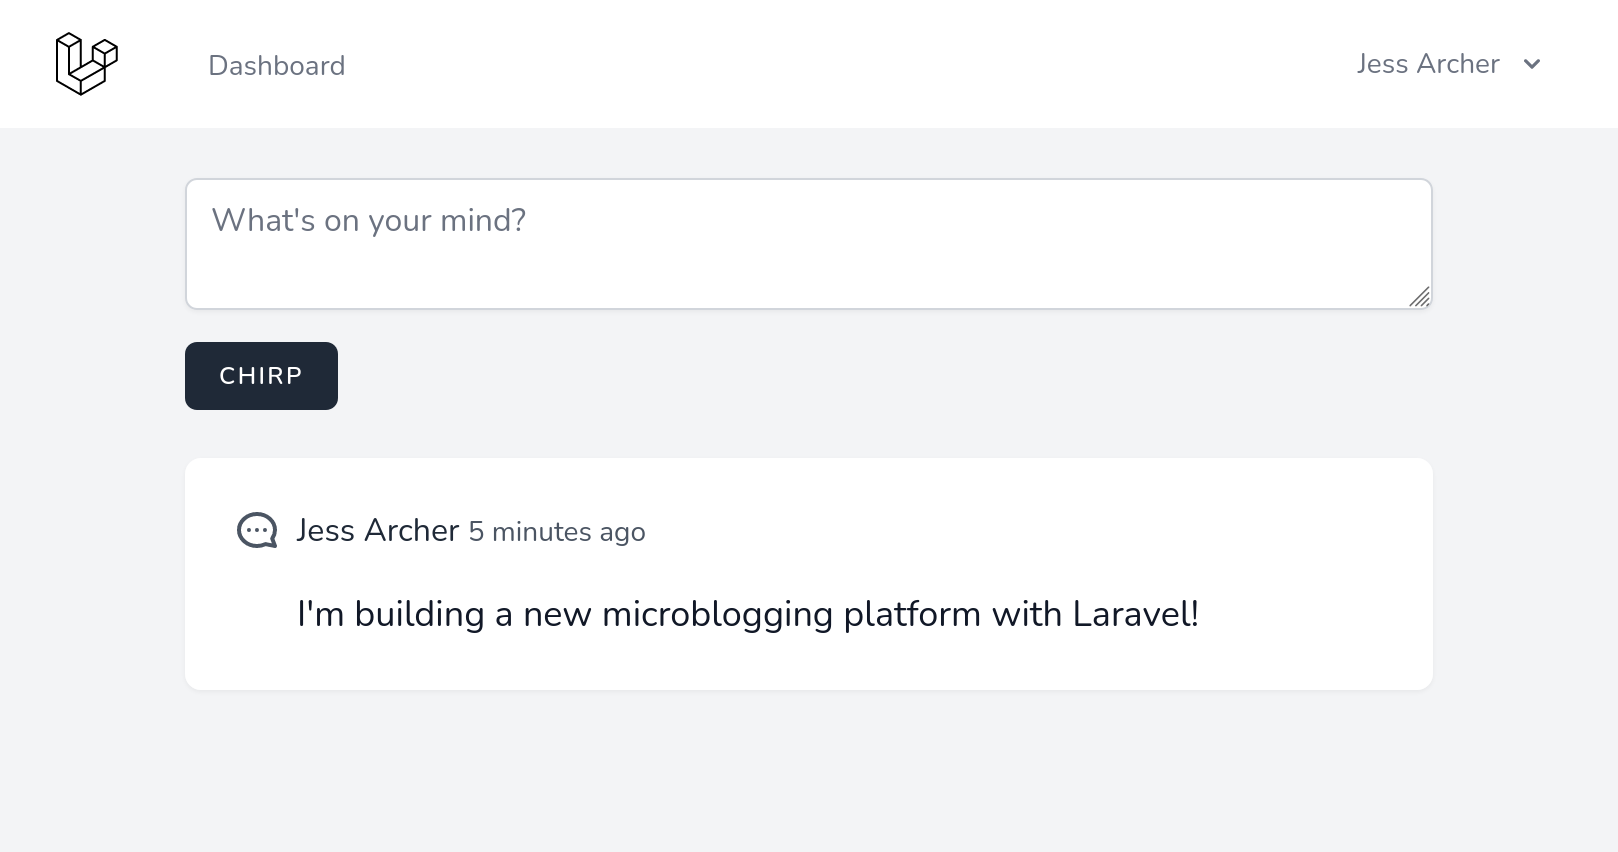
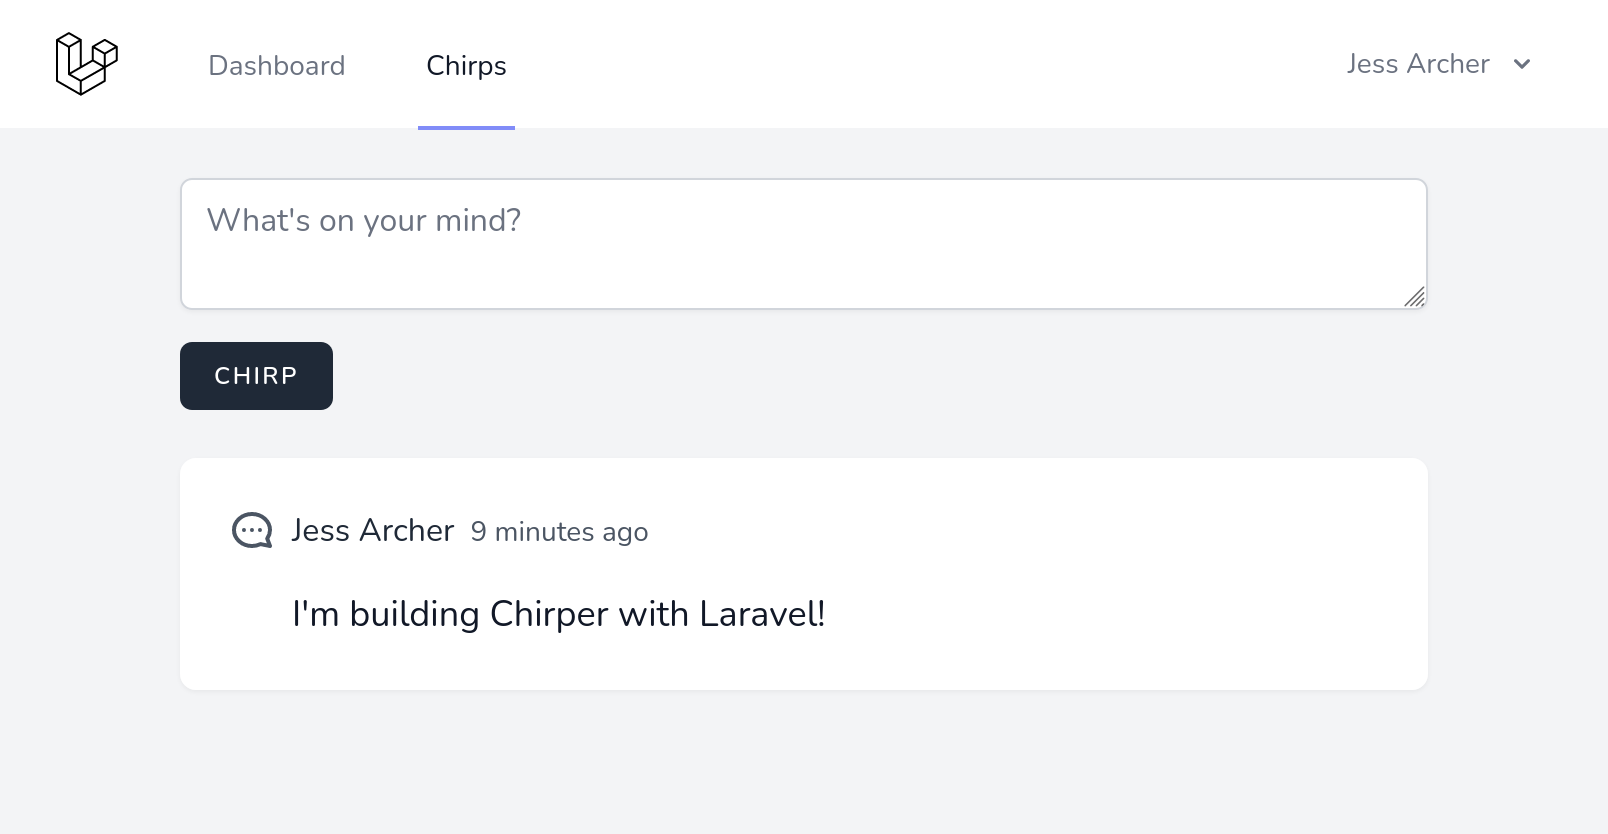
Update content

diff --git a/resources/docs/creating-chirps.md b/resources/docs/creating-chirps.md
@@ -91,7 +91,7 @@ POST      | `/chirps`              | store        | chirps.store
 > **Note**
 > You may view all of the routes for your application by running the `./vendor/bin/sail artisan route:list` command.
 
-Let's test our route and controller by returning a test message from the `index` method of our `ChirpController`:
+Let's test our route and controller by returning a test message from the `index` method of our new `ChirpController` class:
 
 ```php filename=app/Http/Controllers/ChirpController.php
 <?php
@@ -187,7 +187,7 @@ If you are still logged in from earlier, you should see your message when naviga
 
 ## Inertia
 
-Not impressed yet? Let's use Inertia to render a front-end page component:
+Not impressed yet? Let's update the `index` method of our `ChirpController` class to render a front-end page component using Inertia:
 
 ```php filename=app/Http/Controllers/ChirpController.php
 <?php
@@ -292,7 +292,7 @@ import BreezeInputError from '@/Components/InputError.vue';
 import { useForm, Head } from '@inertiajs/inertia-vue3';
 
 const form = useForm({
-    message => '',
+    message: '',
 });
 </script>
 
@@ -355,7 +355,7 @@ export default function Index({ auth }) {
 
 That's it! Refresh the page at [http://localhost/chirps](http://localhost/chirps) and you should see your new form rendered in the default layout provided by Breeze!
 
-<img src="/img/screenshots/chirp-form.png" alt="Chirp form" class="rounded-lg" />
+<img src="/img/screenshots/chirp-form.png" alt="Chirp form" class="rounded-lg border dark:border-none shadow-lg" />
 
 ## Navigation menu
 
@@ -419,7 +419,7 @@ return (
 
 ## Saving the chirp
 
-Our form has been configured to post messages to the `chirps.store` route that we created earlier. Let's update the `store()` method on our `ChirpController` to validate the data and create a new Chirp:
+Our form has been configured to post messages to the `chirps.store` route that we created earlier. Let's update the `store` method on our `ChirpController` class to validate the data and create a new Chirp:
 
 ```php filename=app/Http/Controllers/ChirpController.php
 <?php
@@ -521,15 +521,15 @@ class ChirpController extends Controller
 }
 ```
 
-We're using Laravel's powerful validation feature to ensure that the user provides a message, and that it won't the 255 character limit of the database column we'll be creating.
+We're using Laravel's powerful validation feature to ensure that the user provides a message, and that it won't exceed the 255 character limit of the database column we'll be creating.
 
-We're then creating a record that will belong to the logged in user by leveraging a `chirps()` relationship that we will create next.
+We're then creating a record that will belong to the logged in user by leveraging a `chirps` relationship that we will create next.
 
-And then finally, when using Inertia, we can return a `redirect()` to instruct Inertia to reload our `chirps.index` route.
+And finally, when using Inertia, we can return a redirect response to instruct Inertia to reload our `chirps.index` route.
 
 ## Creating a relationship
 
-You may have noticed in the previous step that we called a `chirps()` method on the `$request->user()` object. This method doesn't actually exist yet, but it would be nice if it did. We can do this by creating a "has many" relationship on our `User` model:
+You may have noticed in the previous step that we called a `chirps` method on the `$request->user()` object. We need to create this method on our `User` model to define a "has many" relationship:
 
 ```php filename=app/Models/User.php
 <?php
@@ -593,7 +593,7 @@ Passing all of the data from a request to your model can be risky. Imagine you h
 
 Laravel protects you from accidentally doing this by blocking mass assignment by default. Mass assignment is very convenient though, as it prevents you from having to assign each attribute one-by-one. We can enable mass assignment for safe attributes my marking them as "fillable".
 
-Open your `Chirp` model and add a `$fillable` property that includes our `messages` attribute:
+Let's add the `$fillable` property to our `Chirp` model enable mass-assignment for the `message` attribute:
 
 ```php filename=app/Models/Chirp.php
 <?php
@@ -618,7 +618,7 @@ You can learn more about Laravel's mass assignment protection in the [documentat
 
 ## Updating the migration
 
-The only thing missing is the extra columns in the database to store the relationship between a `Chirp` and its `User`, and the message itself. Remember the database migration we created earlier? It's time to open that file to add some extra columns:
+The only thing missing is extra columns in the database to store the relationship between a `Chirp` and its `User` and the message itself. Remember the database migration we created earlier? It's time to open that file to add some extra columns:
 
 ```php filename=databases/migration/&amp;lt;timestamp&amp;gt;_create_chirps_table.php
 <?php
@@ -670,6 +670,8 @@ We haven't migrated the database since we added this migration, so let do it now
 
 We're now ready to send a "chirp" from the form we added to [http://localhost/chirps](http://localhost/chirps)! You won't be able to see the result yet because we haven't displayed existing chirps on the page.
 
+<img src="/img/screenshots/chirp-form-filled.png" alt="Chirp form" class="rounded-lg border dark:border-none shadow-lg" />
+
 If you leave the message field empty, or enter more than 255 characters, then you'll see the validation in action.
 
 ### Artisan Tinker
@@ -694,9 +696,9 @@ Chirp::all();
        App\Models\Chirp {#4514
          id: 1,
          user_id: 1,
-         message: "I'm building a new microblogging platform with Laravel!",
-         created_at: "2022-07-10 04:47:10",
-         updated_at: "2022-07-10 04:47:10",
+         message: "I'm building Chirper with Laravel!",
+         created_at: "2022-08-24 13:37:00",
+         updated_at: "2022-08-24 13:37:00",
        },
      ],
    }

diff --git a/resources/docs/notifications-and-events.md b/resources/docs/notifications-and-events.md
@@ -16,7 +16,7 @@ Artisan can, once again, do all the hard work for us with the following command:
 
 This will create a new notification at `app/Notifications/NewChirp.php` that is ready for us to customize.
 
-Let's open this class and allow it to accept the Chirp that was just created, and then customize the message to include the name of the Chirp author, and a snippet from the message.
+Let's open the `NewChirp` class and allow it to accept the `Chirp` that was just created, and then customize the message to include author's name and a snippet from the message.
 
 ```php filename=app/Notifications/NewChirp.php
 <?php
@@ -89,7 +89,7 @@ class NewChirp extends Notification
 }
 ```
 
-We could send the notification directly from the `store` method on our `ChirpController`, but that adds more work for the controller, which in turn could slow down the request, especially as we'll be querying the database and sending emails.
+We could send the notification directly from the `store` method on our `ChirpController` class, but that adds more work for the controller, which in turn can slow down the request, especially as we'll be querying the database and sending emails.
 
 Instead, let's dispatch an event that we can listen for and process in a background queue to keep our application snappy.
 
@@ -102,6 +102,8 @@ Let's create our new event with the following command:
 ```shell
 ./vendor/bin/sail artisan make:event ChirpCreated
 ```
+
+This will create a new event class at `app/Events/ChirpCreated.php`.
 
 Since we'll be dispatching events for each new Chirp that is created, let's update our `ChirpCreated` event to accept the newly created `Chirp` so we may pass it on to our notification.
 
@@ -178,6 +180,8 @@ class Chirp extends Model
     }
 }
 ```
+
+Now any time a new `Chirp` is created, the `ChirpCreated` event will be dispatched.
 
 ## Creating an event listener
 
@@ -303,6 +307,8 @@ Laravel Sail comes with [MailHog](https://github.com/mailhog/MailHog), an email 
 We've configured our notification not to send to the Chirp author, so first be sure that you have registered at least two users accounts. Then, you may go ahead and send a Chirp from one of your registered accounts to trigger a notification.
 
 In your web browser, navigate to [http://localhost:8025/](http://localhost:8025/) where you'll find MailHog's interface. In the inbox, you should see the notification from the message you just chirped!
+
+<img src="/img/screenshots/mailhog.png" alt="MailHog" class="rounded-lg border dark:border-none shadow-lg" />
 
 ### Sending emails in production
 

diff --git a/resources/docs/showing-chirps.md b/resources/docs/showing-chirps.md
@@ -6,7 +6,7 @@ In the previous step we added the ability to create Chirps, now we're ready to d
 
 ## Controller
 
-Let's update the `index()` method our `ChirpController` to pass Chirps from every user to our Index page.
+Let's update the `index` method our `ChirpController` class to pass Chirps from every user to our Index page.
 
 ```php filename=app/Http/Controllers/ChirpController.php
 <?php
@@ -105,6 +105,9 @@ class ChirpController extends Controller
 }
 ```
 
+> **Note**
+> Returning all Chirps at once won't scale in production. Take a look at Laravel's powerful [pagination](https://laravel.com/docs/9.x/pagination) to improve performance.
+
 ## Relationship
 
 We've instructed Laravel to return the `id` and `name` property from the `user` relationship so that we can display the name of the Chirp author, without returning other potentially sensitive information such as the users email address. The `user` relationship hasn't been defined yet, so let's add a new "belongs to" relationship on our `Chirp` model:
@@ -193,8 +196,7 @@ import BreezeAuthenticatedLayout from '@/Layouts/Authenticated.vue';
 import BreezeButton from '@/Components/Button.vue';
 import BreezeInputError from '@/Components/InputError.vue';
 import Chirp from '@/Components/Chirp.vue';// [tl! add]
-import { Head } from '@inertiajs/inertia-vue3';
-import { useForm } from '@inertiajs/inertia-vue3';
+import { useForm, Head } from '@inertiajs/inertia-vue3';
 
 defineProps(['chirps']);// [tl! add]
 
@@ -279,7 +281,7 @@ export default function Index({ auth, chirps }) {// [tl! add]
 
 Refresh the page at [http://localhost/chirps](http://localhost/chirps) to see the message you chirped earlier!
 
-<img src="/img/screenshots/chirp-index.png" alt="Chirp listing" class="rounded-lg" />
+<img src="/img/screenshots/chirp-index.png" alt="Chirp listing" class="rounded-lg border dark:border-none shadow-lg" />
 
 ### Extra Credit: Relative dates
 
@@ -353,7 +355,7 @@ export default function Chirp({ chirp }) {
 
 Take a look in the browser to see your relative dates.
 
-<img src="/img/screenshots/chirp-index-dates.png" alt="Chirp listing with relative dates" class="rounded-lg" />
+<img src="/img/screenshots/chirp-index-dates.png" alt="Chirp listing with relative dates" class="rounded-lg border dark:border-none shadow-lg" />
 
 Feel free to Chirp some more, or even register another account and start a conversation!
 

diff --git a/resources/docs/deleting-chirps.md b/resources/docs/deleting-chirps.md
@@ -8,7 +8,7 @@ Hopefully you're starting to get the hang of things now. We think you'll be impr
 
 ## Route
 
-We'll start again by updating our routes to enable the `destroy` action:
+We'll start again by updating our routes to enable the `chirps.destroy` route:
 
 ```php filename=routes/web.php
 <?php
@@ -62,7 +62,7 @@ DELETE    | `/chirps/{chirp}`      | destroy      | chirps.destroy
 
 ## Controller
 
-Now we can update our `ChirpController` to perform the deletion and return to the Chirp index:
+Now we can update the `destroy` method on our `ChirpController` class to perform the deletion and return to the Chirp index:
 
 ```php filename=app/Http/Controllers/ChirpController.php
 <?php
@@ -177,7 +177,7 @@ class ChirpController extends Controller
 
 ## Authorization
 
-As with editing, we only want our Chirp authors to be able to delete their Chirps, so let's update our policy:
+As with editing, we only want our Chirp authors to be able to delete their Chirps, so let's update the `delete` method our `ChirpPolicy` class:
 
 ```php filename=app/Policies/ChirpPolicy.php
 <?php
@@ -249,7 +249,7 @@ class ChirpPolicy
     public function delete(User $user, Chirp $chirp)
     {
         //
-        return $user->id === $chirp->user_id;// [tl! remove:-1,1 add]
+        return $this->update($user, $chirp);// [tl! remove:-1,1 add]
     }
     // [tl! collapse:start]
     /**
@@ -279,9 +279,11 @@ class ChirpPolicy
 }
 ```
 
+Rather than repeating the logic from the `update` method, we can define the same logic by calling the `update` method from our `destroy` method.
+
 ## Updating our component
 
-Finally, we can add a delete button to our user interface. We'll place it inside the dropdown menu we created earlier that is only visible to the Chirp author:
+Finally, we can add a delete button to the dropdown menu we created earlier in our `Chirp` component:
 
 ```vue tab=Vue filename=resources/js/Components/Chirp.vue
 <script setup>
@@ -427,5 +429,7 @@ export default function Chirp({ chirp }) {
 ## Testing it out
 
 If you chirped anything you weren't happy with, try deleting it!
+
+<img src="/img/screenshots/chirp-delete.png" alt="Deleting a chirp" class="rounded-lg border dark:border-none shadow-lg" />
 
 [Continue to notifications & events...](/notifications-and-events)

diff --git a/resources/docs/editing-chirps.md b/resources/docs/editing-chirps.md
@@ -6,7 +6,7 @@ Let's add a feature that's missing from other popular bird-themed microblogging 
 
 ## Route
 
-First we will update our routes file to enable the `update` route for our resource controller:
+First we will update our routes file to enable the `chirps.update` route for our resource controller:
 
 ```php filename=routes/web.php
 <?php
@@ -204,7 +204,7 @@ export default function Chirp({ chirp }) {
 
 ## Updating our controller
 
-We can now update our `ChirpController` to accept the request and update the Chirp. Even though we're only displaying the edit button to the author of the Chirp, we need to authorize the request to make sure it's the author that is updating it.
+We can now update the `update` method on our `ChirpController` class to validate the request and update the database. Even though we're only displaying the edit button to the author of the Chirp, we also need to authorize the request to make sure it's the author that is updating it.
 
 ```php filename=app/Http/Controllers/ChirpController.php
 <?php
@@ -319,7 +319,7 @@ class ChirpController extends Controller
 
 ## Authorization
 
-By default, the `authorize()` method will prevent anyone from being able to update the Chirp. We can specify who is allowed to update it by creating a [Model Policy](https://laravel.com/docs/authorization#creating-policies) with the following command:
+By default, the `authorize` method will prevent *everyone* from being able to update the Chirp. We can specify who is allowed to update it by creating a [Model Policy](https://laravel.com/docs/authorization#creating-policies) with the following command:
 
 ```shell
 ./vendor/bin/sail artisan make:policy ChirpPolicy --model=Chirp
@@ -429,6 +429,8 @@ class ChirpPolicy
 
 ## Testing it out
 
-Time to test it out! Go ahead and edit a few Chirps. If you register another user account, you'll see that only the author of a Chirp can edit it.
+Time to test it out! Go ahead and edit a few Chirps using the dropdown menu. If you register another user account, you'll see that only the author of a Chirp can edit it.
+
+<img src="/img/screenshots/chirp-editted.png" alt="An editted chirp" class="rounded-lg border dark:border-none shadow-lg" />
 
 [Continue to allow deleting of chirps...](/deleting-chirps)

diff --git a/resources/docs/installation.md b/resources/docs/installation.md
@@ -29,8 +29,8 @@ cd chirper
 
 Once the application's Docker containers have been started, you can access the application in your web browser at: [http://localhost](http://localhost).
 
-<img src="/img/screenshots/fresh.png" alt="A fresh Laravel installation" class="dark:hidden rounded-lg" />
-<img src="/img/screenshots/fresh-dark.png" alt="A fresh Laravel installation" class="hidden dark:block rounded-lg" />
+<img src="/img/screenshots/fresh.png" alt="A fresh Laravel installation" class="dark:hidden rounded-lg border shadow-lg" />
+<img src="/img/screenshots/fresh-dark.png" alt="A fresh Laravel installation" class="hidden dark:block rounded-lg border-gray-700 shadow-lg" />
 
 ## Installing Laravel Breeze
 
@@ -52,11 +52,9 @@ Open a new terminal in your `chirper` project directory, and then install your c
 ./vendor/bin/sail artisan breeze:install react
 ```
 
-Breeze will configure your front-end dependencies for you, so we can now install them and start the Vite development server:
+Breeze will install and configure your front-end dependencies for you, so we just need to start the Vite development server to enable instant hot-module replacement while we build our application.
 
 ```shell
-npm install
-
 npm run dev
 ```
 
@@ -66,8 +64,10 @@ Finally, open another terminal in your `chirper` project directory and run the i
 ./vendor/bin/sail artisan migrate
 ```
 
-If you refresh your Laravel application in the browser at [http://localhost](http://localhost), you may now follow the "Register" link at the top right to register a test account and log in.
+If you refresh your new Laravel application in the browser at [http://localhost](http://localhost), you should now see a "Register" link at the top-right. Follow that to see the registration form provided by Laravel Breeze.
 
-<img src="/img/screenshots/register.png" alt="Laravel registration page" class="rounded-lg" />
+<img src="/img/screenshots/register.png" alt="Laravel registration page" class="rounded-lg border dark:border-none shadow-lg" />
+
+Register yourself an account and log in!
 
 [Continue to start creating chirps...](/creating-chirps)
